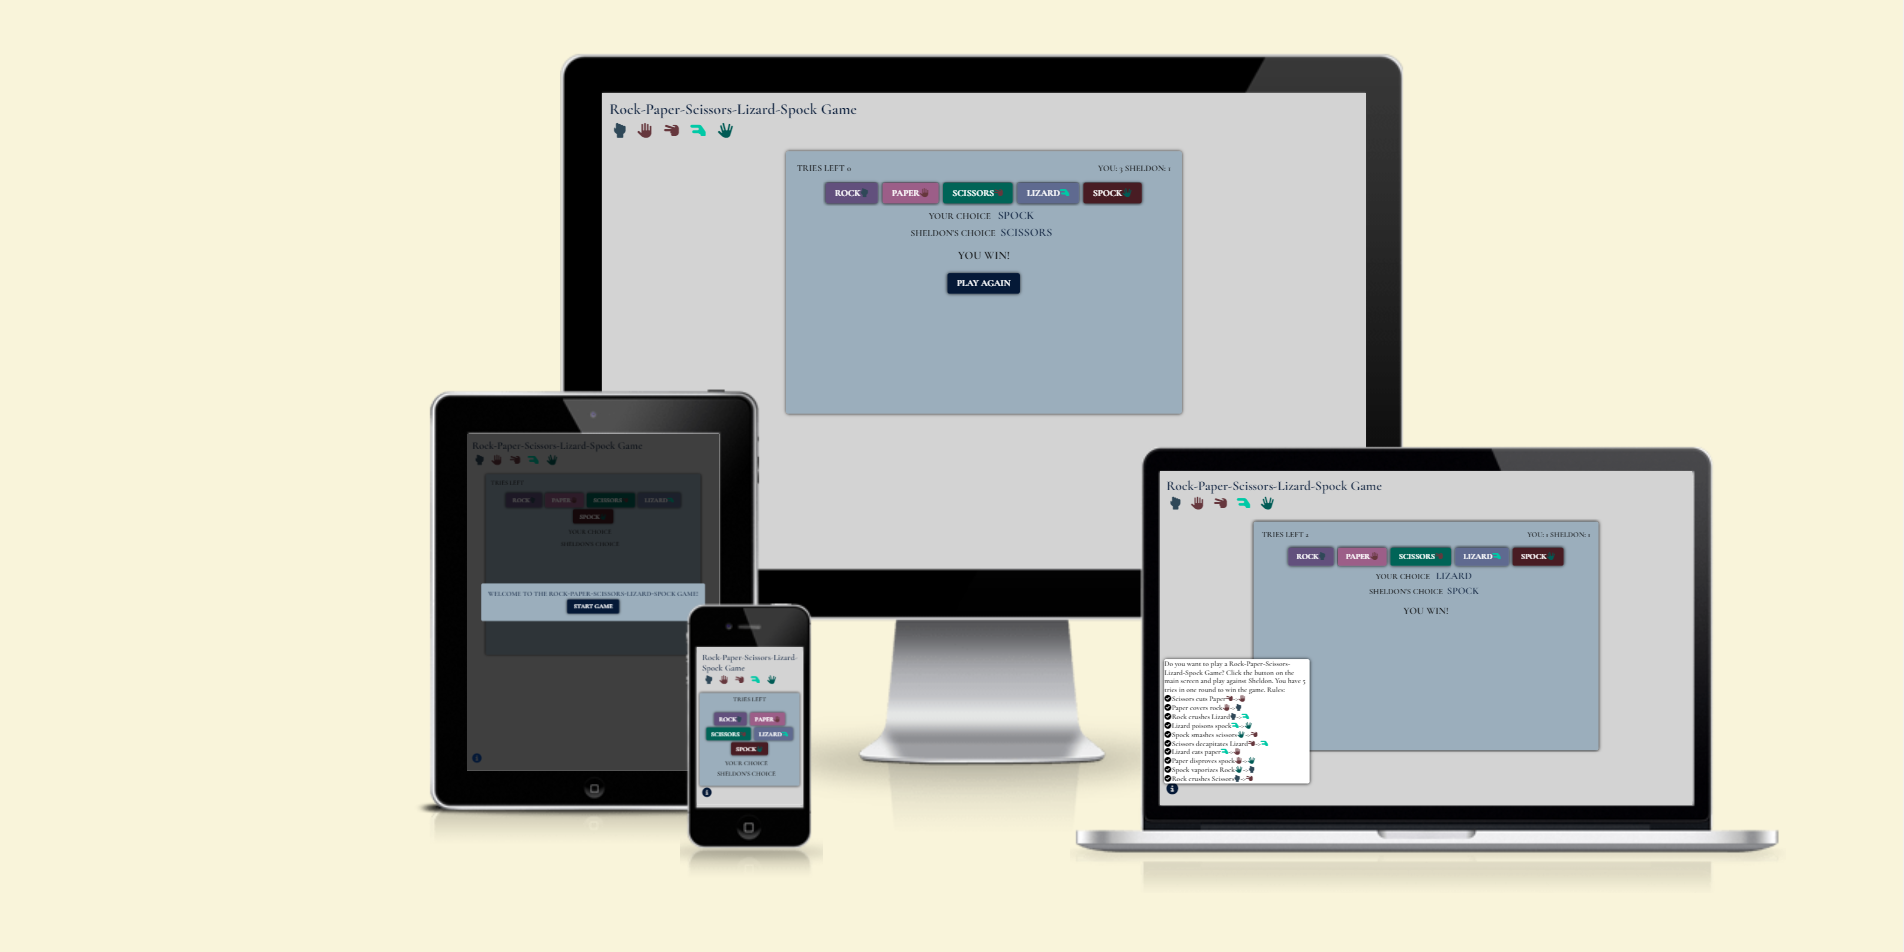
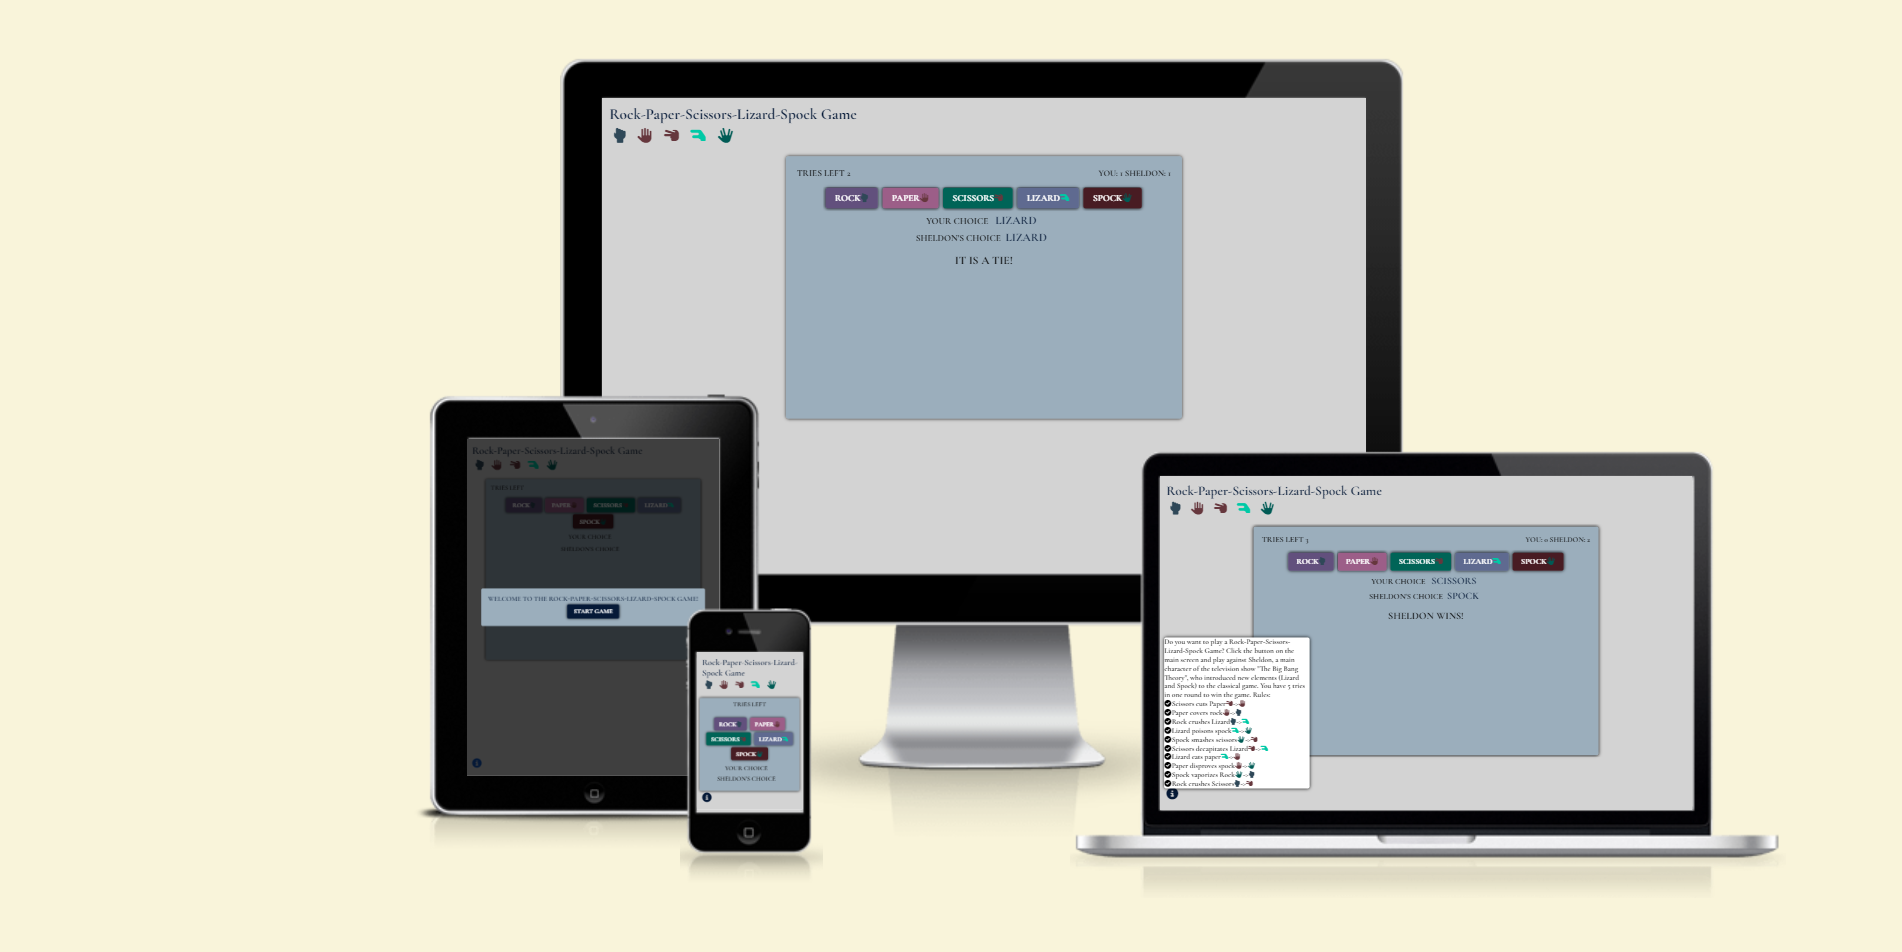
Update information in the information box, upload up-to-date mock up and footer screenshots

Changed region(s): [[0.2171, 0.0305, 0.9306, 0.9139], [0.4033, 0.1523, 0.6204, 0.3351], [0.2482, 0.5179, 0.3412, 0.5483]]

diff --git a/index.html b/index.html
@@ -66,16 +66,15 @@
             <div id="information-container">
                 <div id="information">
                     <p>Do you want to play a Rock-Paper-Scissors-Lizard-Spock Game? Click the button on the main screen and play against
-                    Sheldon, a main character of the television show "The Big Bang Theory", who introduced new elements (Lizard and Spock)
-                    to the classical game. You have 5 tries in one round to win the game. Rules:<br>
+                    Sheldon, a main character of the TV show "The Big Bang Theory", who added Lizard and Spock to the classical game. You have 5 tries in one round to win the game. Rules:<br>
                         <i class="fa-solid fa-circle-check"></i>Scissors cuts Paper<i class="fa-solid fa-hand-scissors"></i><span>-></span><i class="fa-solid fa-hand"></i><br>
-                        <i class="fa-solid fa-circle-check"></i>Paper covers rock<i class="fa-solid fa-hand"></i><span>-></span><i class="fa-solid fa-hand-back-fist"></i><br>
+                        <i class="fa-solid fa-circle-check"></i>Paper covers Rock<i class="fa-solid fa-hand"></i><span>-></span><i class="fa-solid fa-hand-back-fist"></i><br>
                         <i class="fa-solid fa-circle-check"></i>Rock crushes Lizard<i class="fa-solid fa-hand-back-fist"></i><span>-></span><i class="fa-solid fa-hand-lizard"></i><br>
-                        <i class="fa-solid fa-circle-check"></i>Lizard poisons spock<i class="fa-solid fa-hand-lizard"></i><span>-></span><i class="fa-solid fa-hand-spock"></i><br>
-                        <i class="fa-solid fa-circle-check"></i>Spock smashes scissors<i class="fa-solid fa-hand-spock"></i><span>-></span><i class="fa-solid fa-hand-scissors"></i><br>
+                        <i class="fa-solid fa-circle-check"></i>Lizard poisons Spock<i class="fa-solid fa-hand-lizard"></i><span>-></span><i class="fa-solid fa-hand-spock"></i><br>
+                        <i class="fa-solid fa-circle-check"></i>Spock smashes Scissors<i class="fa-solid fa-hand-spock"></i><span>-></span><i class="fa-solid fa-hand-scissors"></i><br>
                         <i class="fa-solid fa-circle-check"></i>Scissors decapitates Lizard<i class="fa-solid fa-hand-scissors"></i><span>-></span><i class="fa-solid fa-hand-lizard"></i><br>
-                        <i class="fa-solid fa-circle-check"></i>Lizard eats paper<i class="fa-solid fa-hand-lizard"></i><span>-></span><i class="fa-solid fa-hand"></i><br>
-                        <i class="fa-solid fa-circle-check"></i>Paper disproves spock<i class="fa-solid fa-hand"></i><span>-></span><i class="fa-solid fa-hand-spock"></i><br>
+                        <i class="fa-solid fa-circle-check"></i>Lizard eats Paper<i class="fa-solid fa-hand-lizard"></i><span>-></span><i class="fa-solid fa-hand"></i><br>
+                        <i class="fa-solid fa-circle-check"></i>Paper disproves Spock<i class="fa-solid fa-hand"></i><span>-></span><i class="fa-solid fa-hand-spock"></i><br>
                         <i class="fa-solid fa-circle-check"></i>Spock vaporizes Rock<i class="fa-solid fa-hand-spock"></i><span>-></span><i class="fa-solid fa-hand-back-fist"></i><br>
                         <i class="fa-solid fa-circle-check"></i>Rock crushes Scissors<i class="fa-solid fa-hand-back-fist"></i><span>-></span><i class="fa-solid fa-hand-scissors"></i>
                     </p>
